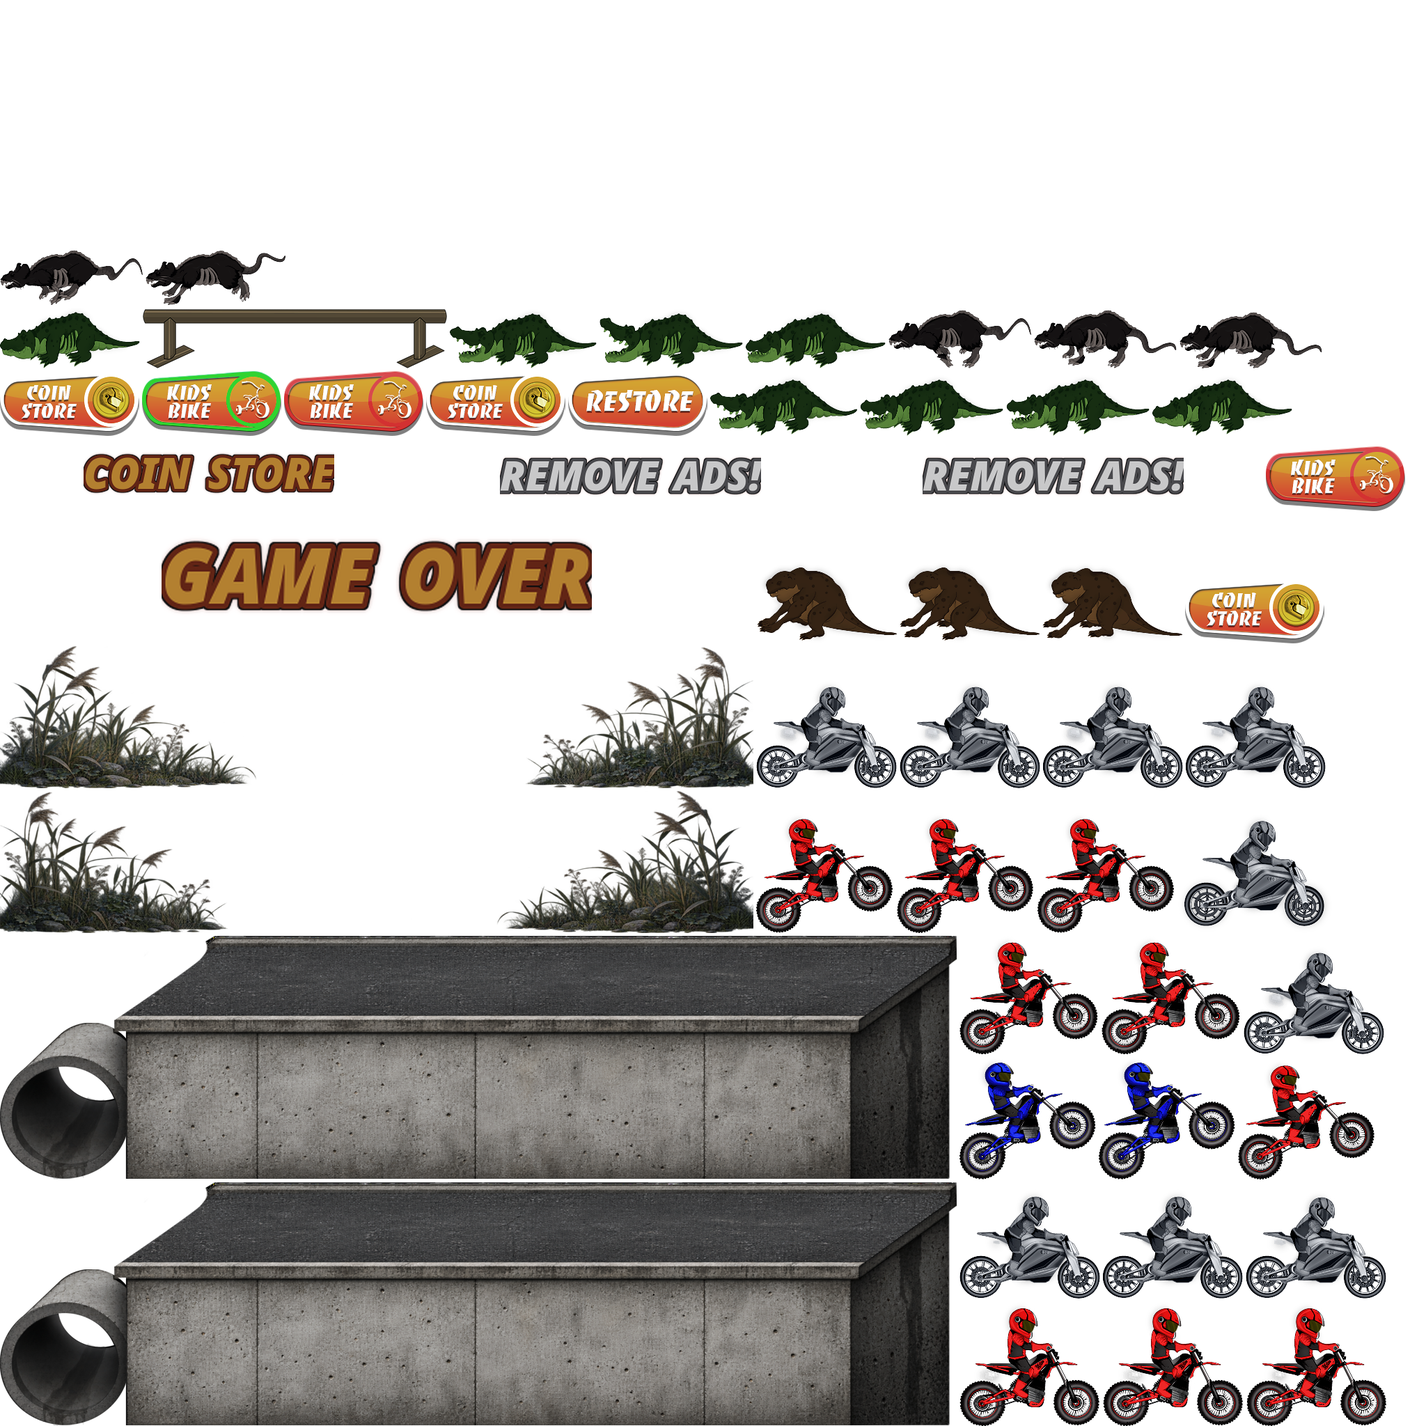
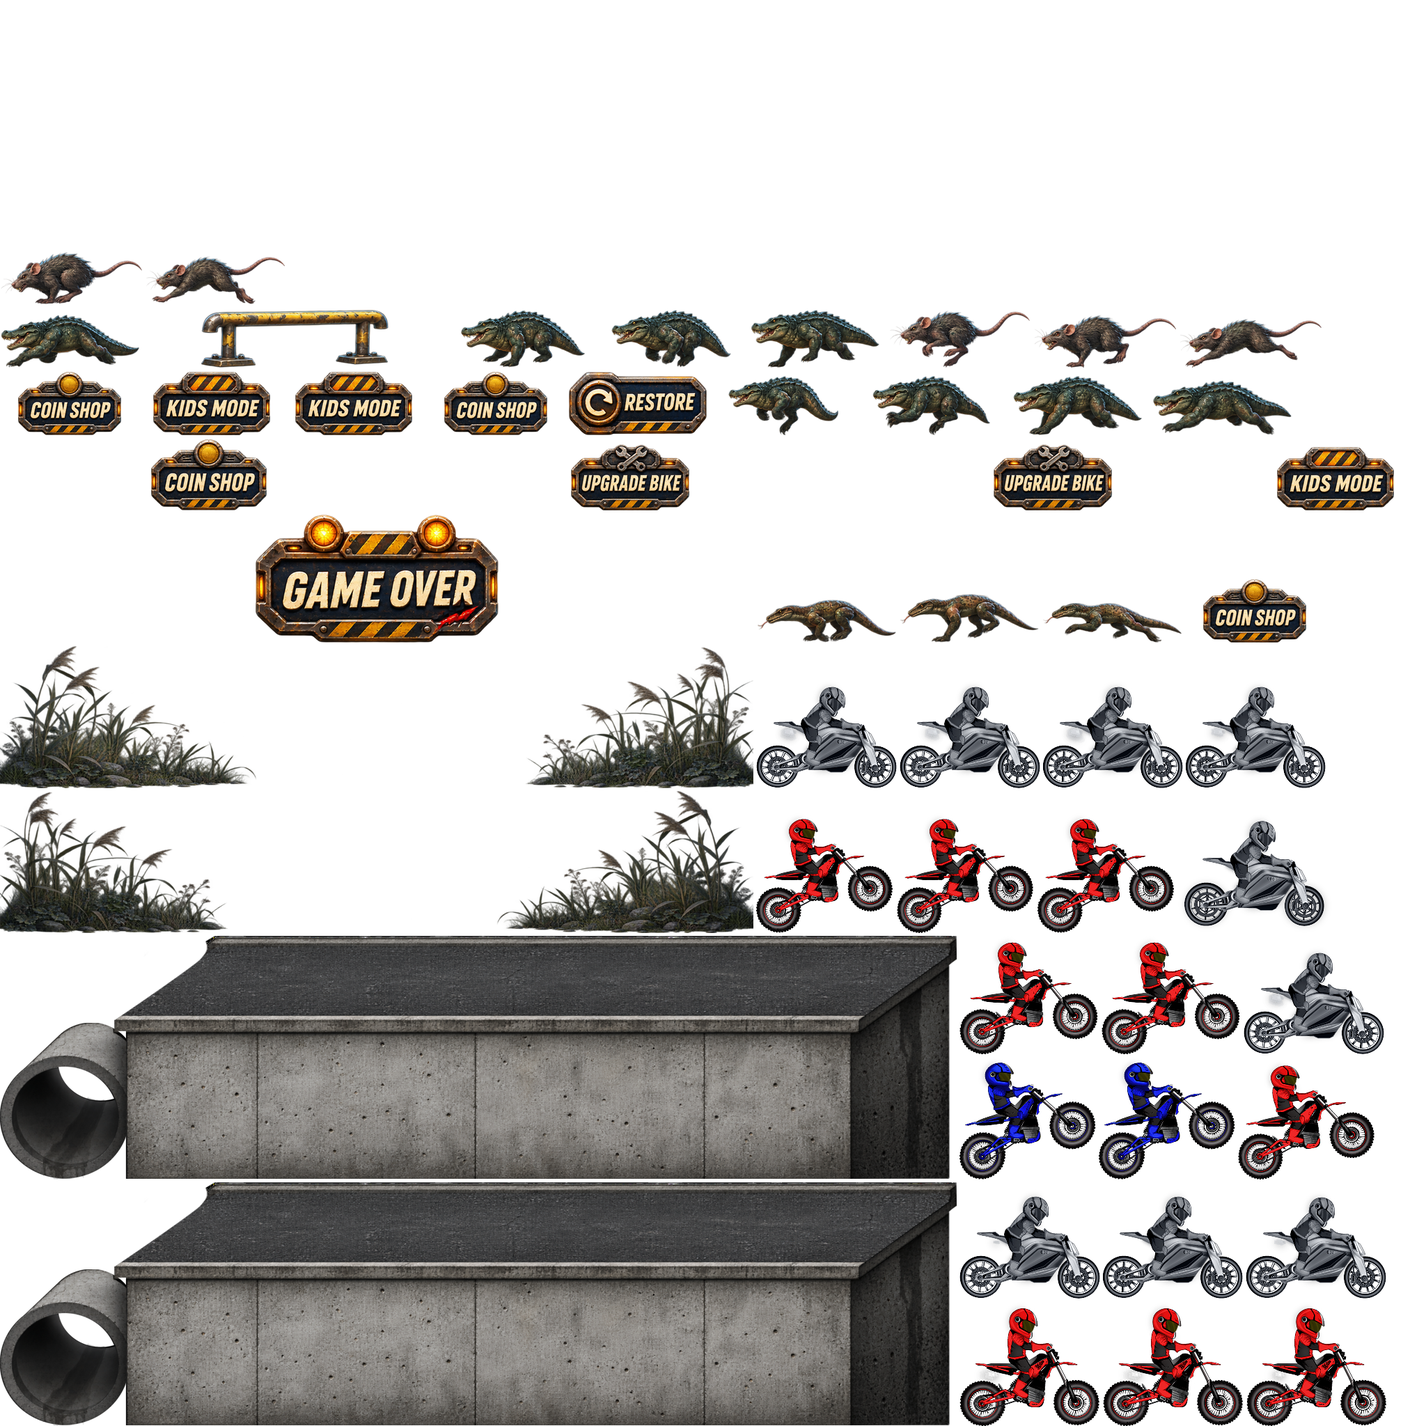
design changes 2

Changed region(s): [[0.0, 0.1562, 1.0, 0.4688]]

diff --git a/tools/build_v2_production_art.py b/tools/build_v2_production_art.py
@@ -210,12 +210,127 @@ def build_barrel() -> None:
     atlas.save(OUT / "animation_s0.png", optimize=True)
 
 
+def logical_frame(plist_path: Path, name: str, subject: Image.Image) -> Image.Image:
+    _, source_rect, source_size = frame_record(plist_path, name)
+    rx, ry, rw, rh = source_rect
+    logical = Image.new("RGBA", source_size, (0, 0, 0, 0))
+    logical.alpha_composite(fit(subject, rw, rh, 1), (rx, ry))
+    return logical
+
+
+def replace_registered_frame(
+    atlases: dict[str, Image.Image], atlas_name: str, name: str, subject: Image.Image
+) -> Image.Image:
+    plist_path = HD / f"{atlas_name}.plist"
+    packed, source_rect, _ = frame_record(plist_path, name)
+    logical = logical_frame(plist_path, name, subject)
+    x, y, width, height = packed
+    rx, ry, rw, rh = source_rect
+    if (width, height) != (rw, rh):
+        raise ValueError(f"rotated or mismatched frame is not supported: {atlas_name}/{name}")
+    atlas = atlases[atlas_name]
+    atlas.paste((0, 0, 0, 0), (x, y, x + width, y + height))
+    atlas.alpha_composite(logical.crop((rx, ry, rx + rw, ry + rh)), (x, y))
+    return logical
+
+
+def build_legacy_obstacles_and_ui() -> None:
+    """Replace weak legacy families while preserving every registered frame."""
+    atlas_names = ["animation_s0", "animation_s1", "animation_s2", "animation_s3"]
+    atlases = {
+        name: Image.open(OUT / f"{name}.png" if name == "animation_s0" else HD / f"{name}.png").convert("RGBA")
+        for name in atlas_names
+    }
+
+    creature_source = Image.open(ART / "obstacles/all/creatures-painted-source.png").convert("RGBA")
+    creature_boxes = row_order(components(creature_source, min_area=5000), tolerance=90)
+    if len(creature_boxes) != 21:
+        raise ValueError(f"expected 21 creature frames, found {len(creature_boxes)}: {creature_boxes}")
+    creature_subjects = [crop(creature_source, box, 2) for box in creature_boxes]
+    creature_frames = [
+        [("animation_s3", f"Obstacles_0_{i}") for i in range(8)],
+        [
+            ("animation_s3", "Obstacles_1_0"), ("animation_s0", "Obstacles_1_1"),
+            ("animation_s3", "Obstacles_1_2"), ("animation_s3", "Obstacles_1_3"),
+            ("animation_s1", "Obstacles_1_4"), ("animation_s1", "Obstacles_1_5"),
+            ("animation_s1", "Obstacles_1_6"), ("animation_s1", "Obstacles_1_7"),
+        ],
+        [("animation_s3", f"Obstacles_2_{i}") for i in range(5)],
+    ]
+
+    obstacle_dir = ART / "obstacles/all/logical"
+    obstacle_dir.mkdir(parents=True, exist_ok=True)
+    source_cursor = 0
+    for obstacle_index, (family, slug) in enumerate(zip(creature_frames, ["alligator", "lizard", "rat"])):
+        logical_frames = []
+        for atlas_name, frame_name in family:
+            logical_frames.append(replace_registered_frame(
+                atlases, atlas_name, frame_name, creature_subjects[source_cursor]
+            ))
+            source_cursor += 1
+        # The runtime uses one polygon for every animation frame even though
+        # their logical canvases vary by a few pixels. Trace the registered
+        # first frame, matching the legacy collision authoring contract.
+        logical_frames[0].save(
+            obstacle_dir / f"{obstacle_index}-{slug}-collision-source.png", optimize=True
+        )
+
+    hurdle_source = Image.open(ART / "obstacles/all/hurdles-painted-source.png").convert("RGBA")
+    hurdle_boxes = row_order(components(hurdle_source, min_area=5000), tolerance=150)
+    if len(hurdle_boxes) != 7:
+        raise ValueError(f"expected seven hurdle concepts, found {len(hurdle_boxes)}: {hurdle_boxes}")
+    hurdle_subjects = [crop(hurdle_source, box, 2) for box in hurdle_boxes]
+    hurdle_families = [
+        (3, "light-barrier", [("animation_s0", "Obstacles_3_0", 0), ("animation_s0", "Obstacles_3_1", 1)]),
+        (5, "launch-ramp", [("animation_s1", "Obstacles_5_0", 2)]),
+        (6, "fence", [("animation_s0", "Obstacles_6_0", 3)]),
+        (7, "grind-rail", [("animation_s3", "Obstacles_7_0", 4)]),
+        (8, "dirt-ramp", [("animation_s1", "Obstacles_8_0", 5)]),
+    ]
+    for obstacle_index, slug, family in hurdle_families:
+        logical_frames = [
+            replace_registered_frame(atlases, atlas_name, frame_name, hurdle_subjects[source_index])
+            for atlas_name, frame_name, source_index in family
+        ]
+        union = Image.new("RGBA", logical_frames[0].size, (0, 0, 0, 0))
+        for logical in logical_frames:
+            union = Image.alpha_composite(union, logical)
+        union.save(obstacle_dir / f"{obstacle_index}-{slug}-collision-source.png", optimize=True)
+
+    ui_source = Image.open(ART / "ui/screens-painted-source.png").convert("RGBA")
+    ui_boxes = row_order(components(ui_source, min_area=10000), tolerance=100)
+    if len(ui_boxes) != 10:
+        raise ValueError(f"expected ten UI components, found {len(ui_boxes)}: {ui_boxes}")
+    ui_subjects = [crop(ui_source, box, 2) for box in ui_boxes]
+    ui_map = [
+        ("animation_s3", "InterfaceGO_0_0", 0),
+        ("animation_s2", "InterfacePM_0_0", 1),
+        ("animation_s3", "InterfaceCoinShop_1_0", 2),
+        ("animation_s3", "InterfaceMM_4_0", 6),
+        ("animation_s3", "InterfaceMM_5_0", 3),
+        ("animation_s3", "InterfaceMM_6_0", 2),
+        ("animation_s3", "InterfaceMM_7_0", 4),
+        ("animation_s3", "InterfaceMM_8_0", 4),
+        ("animation_s3", "InterfaceGO_4_0", 4),
+        ("animation_s3", "InterfaceGO_5_0", 2),
+        ("animation_s3", "InterfaceGO_6_0", 3),
+        ("animation_s3", "InterfaceCS_12_0", 2),
+        ("animation_s1", "InterfaceGF_4_0", 8),
+    ]
+    for atlas_name, frame_name, source_index in ui_map:
+        replace_registered_frame(atlases, atlas_name, frame_name, ui_subjects[source_index])
+
+    for atlas_name, atlas in atlases.items():
+        atlas.save(OUT / f"{atlas_name}.png", optimize=True)
+
+
 def main() -> None:
     OUT.mkdir(parents=True, exist_ok=True)
     build_events()
     build_portraits()
     build_scenic()
     build_barrel()
+    build_legacy_obstacles_and_ui()
     print(f"built production candidates in {OUT}")
 
 

diff --git a/Source/V2/V2RoadEvents.cpp b/Source/V2/V2RoadEvents.cpp
@@ -700,9 +700,12 @@ void RoadEventDirector::layoutHud() {
     const float S = PZLayout::uiScale();
     // left column: coin counter, combo (-162), then the objective plate (-206) and the micro challenge plate (-256)
     if (_objPlate && _objPlate->getNumberOfRunningActions() == 0) _objPlate->setScale(S);
-    if (_objPlate) _objPlate->setPosition(Vec2(safe.getMinX() + 10.f * S, safe.getMaxY() - 208.f * S));
+    // The plates sit in the wall band to the RIGHT of the rider column (rider ~ screen x/5, T-Rex left of it): never over the rider's
+    // head, the camera cut-out or the left-edge actors.
+    const float plateX = std::max(safe.getMinX() + 10.f * S, safe.getMinX() + safe.size.width * 0.27f);
+    if (_objPlate) _objPlate->setPosition(Vec2(plateX, safe.getMaxY() - 208.f * S));
     if (_microPlate && _microPlate->getNumberOfRunningActions() == 0) _microPlate->setScale(S);
-    if (_microPlate) _microPlate->setPosition(Vec2(safe.getMinX() + 10.f * S, safe.getMaxY() - (_objPlate ? 262.f : 208.f) * S));
+    if (_microPlate) _microPlate->setPosition(Vec2(plateX, safe.getMaxY() - (_objPlate ? 262.f : 208.f) * S));
     if (!_marker) return;
     _marker->setScale(S);
     _marker->setPosition(Vec2(safe.getMidX(), safe.getMaxY() - 90.f * S));
@@ -921,7 +924,7 @@ void RoadEventDirector::impact(Actor& m, const Context& ctx) {
         const int g = _nextGroup++;
         for (int i = 0; i < 4; ++i) {
             const float arc = std::sin(3.14159265f * (i + 0.5f) / 4.f) * 0.30f * ctx.apex;
-            if (Actor* c = spawn(Kind::BonusCoin, "coin_gold", 1, m.x - 60.f + i * 40.f, gy + 22.f + arc, 26.f * k, false)) {
+            if (Actor* c = spawn(Kind::BonusCoin, "coin_gold", 1, m.x - 60.f + i * 40.f, gy + 22.f + arc, 34.f * k, false)) {
                 c->w = 34.f * k; c->h = 34.f * k; c->group = g;
             }
         }
@@ -1138,7 +1141,7 @@ void RoadEventDirector::updateTrex(const Context& ctx) {
             if (_waited > 8.f) finishEvent(Outcome::SkippedNoRoad);
             return;
         }
-        t = spawn(Kind::Ambient, "dino_big", 4, 34.f, gy, std::min(1.25f * ctx.apex, 210.f * k), false);
+        t = spawn(Kind::Ambient, "dino_big", 4, 125.f, gy, std::min(0.9f * ctx.apex, 150.f * k), false);   // fully on screen, clear of the camera cut-out
         if (!t) { finishEvent(Outcome::SkippedNoRoad); return; }
         t->fps = 7.f;
         t->w = 0.f;
@@ -1156,7 +1159,7 @@ void RoadEventDirector::updateTrex(const Context& ctx) {
     if (!t) { finishEvent(Outcome::Failed); return; }
     const int phase = _step <= 4 ? 1 : (_step <= 7 ? 2 : 3);
     if (_step <= 9) {
-        t->x = 34.f + std::sin(_t * 2.f) * 14.f;                // lumbering at the left edge
+        t->x = 125.f + std::sin(_t * 2.f) * 14.f;                // lumbering at the left edge
         t->root->setRotation(std::sin(_t * 6.f) * 1.5f);
         static const char* kPhase[3] = {"PURSUIT", "LOG KICKS", "TWIN STOMPS"};
         setObjective("T-REX " + std::to_string(phase) + "/3  " + kPhase[phase - 1] + "\n" + std::to_string(std::min(_passed, _target)) + "/" + std::to_string(_target) +
@@ -1520,7 +1523,7 @@ void RoadEventDirector::spawnRiskLine(float x, float gy, float apex, int count, 
     const float k = kDeviceScale();
     for (int i = 0; i < count; ++i) {
         const float arc = std::sin(3.14159265f * (i + 0.5f) / count) * 0.12f * apex;
-        if (Actor* c = spawn(Kind::BonusCoin, "coin_gold", 1, x + i * spacing, gy + heightFrac * apex + arc, 26.f * k, false)) {
+        if (Actor* c = spawn(Kind::BonusCoin, "coin_gold", 1, x + i * spacing, gy + heightFrac * apex + arc, 34.f * k, false)) {
             c->w = 34.f * k;
             c->h = 34.f * k;
             c->group = group;

diff --git a/Source/Features/PZRunDirector.cpp b/Source/Features/PZRunDirector.cpp
@@ -610,33 +610,32 @@ void PZRunDirector::beginIntro() {
         ch0->jump_counter = 1;
         ch0->setVisible(false);
     }
-    // The platform generator fills the world in its first update, so start the show one beat later.
-    auto proceed = [this]() {
-        auto* intro = Sequence::create(DelayTime::create(0.30f),
-                                       CallFunc::create([this]() { startIntroNow(); }), nullptr);
-        intro->setTag(kIntroDelayTag);
-        runAction(intro);
-    };
-    // Rival dialogue (data in CompleteGameInfo.plist): only before the run, only when a sequence is eligible, always skippable.
-    // The world stays frozen behind it, so no simulation tick advances while it is on screen.
+    // The platform generator fills the world in its first update, so everything visible (dialogue or ride-in) starts one beat
+    // later. The dialogue must NOT freeze the world before that first update, or the road would never be generated and the
+    // intro / dialogue would show an empty sewer (and the rider would fall at GO).
+    std::string seq;
     if (_dialogue) {
         V2::DialogueContext dc;
         dc.replay = V2::Replay::state() == V2::Replay::State::Playing;
         dc.dailyRun = V2::Daily::mode() != V2::Daily::Mode::None;
         dc.dateKey = V2::Daily::dateKeyNow();
-        const std::string seq = V2::DialogueDirector::pick(dc);
-        if (!seq.empty()) {
-            freezeFor(600.f);
+        seq = V2::DialogueDirector::pick(dc);                  // data in CompleteGameInfo.plist; "" = none eligible
+    }
+    auto* intro = Sequence::create(DelayTime::create(0.30f), CallFunc::create([this, seq]() {
+        if (!seq.empty() && _dialogue && _scene) {
+            freezeFor(600.f);                                  // the road exists now; hold the world (no ticks) behind the dialogue
             Node* host = _scene->getParent() ? _scene->getParent() : _scene;
             V2::Analytics::shared().log("dialogue_shown", {{"id", seq}});
-            if (_dialogue->show(seq, host, [this, proceed, seq]() {
+            if (_dialogue->show(seq, host, [this, seq]() {
                     V2::Analytics::shared().log("dialogue_done", {{"id", seq}});
-                    proceed();
+                    startIntroNow();
                 })) return;
-            freezeFor(0.01f);                           // art missing: carry on without it
+            freezeFor(0.01f);                                  // art missing: carry on without it
         }
-    }
-    proceed();
+        startIntroNow();
+    }), nullptr);
+    intro->setTag(kIntroDelayTag);
+    runAction(intro);
 }
 
 void PZRunDirector::openCinematicFrame() {

diff --git a/tools/make_v2_portraits.py b/tools/make_v2_portraits.py
@@ -49,7 +49,12 @@ def bust(jacket, trim, expr):
     return im.resize((W, H), Image.LANCZOS)
 
 
+FORCE_GUARD = True
+
+
 def main():
+    if FORCE_GUARD and '--force' not in sys.argv:
+        sys.exit('REFUSING: Content/Images/HD/v2_portraits.png now holds the painted production art; this script only draws the old flat placeholder. Pass --force to overwrite it anyway.')
     sets = {"player": ((196, 48, 44, 255), (236, 196, 70, 255)), "cool_kid": ((52, 112, 214, 255), (240, 240, 245, 255))}
     sp = []
     for name, (jacket, trim) in sets.items():

diff --git a/tools/make_v2_scenic.py b/tools/make_v2_scenic.py
@@ -66,7 +66,12 @@ def peek():
     return im
 
 
+FORCE_GUARD = True
+
+
 def main():
+    if FORCE_GUARD and '--force' not in sys.argv:
+        sys.exit('REFUSING: Content/Images/HD/v2_scenic.png now holds the painted production art; this script only draws the old flat placeholder. Pass --force to overwrite it anyway.')
     sp = [("scenic_walker_0", walker(0)), ("scenic_walker_1", walker(1)), ("scenic_peek_0", peek())]
     sheet, frames = pack(sp, size=1024)
     os.makedirs(OUT, exist_ok=True)

diff --git a/Source/AppDelegate.cpp b/Source/AppDelegate.cpp
@@ -2,6 +2,7 @@
 #include "AppDelegate.h"
 #include "PZGGameFieldScene.h"
 #include "V2/V2Metrics.h"
+#include "V2/V2Metrics.h"
 #include "PZGCharacterMenu.h"
 #include "PZGLoadingScene.h"
 #include "PZGMainMenuScene.h"
@@ -48,6 +49,7 @@ void AppDelegate::setDebugModeEnabled(bool enable) {
 }
 
 bool AppDelegate::applicationDidFinishLaunching() {
+    V2::Metrics::markLaunch();
     V2::Metrics::markLaunch();
 
     ax::setLogLevel(ax::LogLevel::Debug);

diff --git a/versions/v2/PRODUCT_PLAN.md b/versions/v2/PRODUCT_PLAN.md
@@ -2186,3 +2186,48 @@ If a future method measurably produces safer boundaries or faster reviewed itera
 6. Run the player-session protocol. Art polish is not proof of entertainment or retention; measure first-event reach, voluntary second run, dialogue skips and remembered spectacle moments.
 
 The graphics are credible production candidates, not a finished release. The largest current risk is no longer placeholder style; it is shipping untested collision feel and spectacle density.
+
+### 23.18 Full registered obstacle and screen-art pass (2026-11-21)
+
+The barrel slice was extended to every registered obstacle family without adding
+new gameplay rules or atlas names:
+
+- 8-frame sewer alligator, 8-frame sewer lizard and 5-frame sewer rat cycles;
+- light barrier off/on, barrel, launch ramp, fence, grind rail and dirt ramp;
+- GAME OVER, PAUSED, shop, upgrade, restore, kids-mode and first tutorial-card
+  art now share the navy/steel/cream/orange sewer UI language.
+
+The approved bike/rider atlases, platforms, parallax backgrounds, coins, circular
+controls and in-run HUD were preserved. “Replace all sprite sheets” does not mean
+blindly repaint good assets: unnecessary replacement increases inconsistency,
+download size and regression risk without improving retention.
+
+Integration is deterministic through `tools/build_v2_production_art.py`. It
+rebuilds all four `animation_s*.png` textures while preserving the existing plist
+frame names, rectangles and logical canvases. A pixel audit verifies that only
+the declared frame rectangles change. All collision-bearing replacements have
+review overlays under `reskin-automation/art/v2-production/obstacles/all/` and
+five-point OpenCV inset hulls in `CompleteGameInfo.plist`.
+
+`v2.contentVersion` is now **3** and `rulesVersion` is now **4**. This invalidates
+older deterministic replays by design. Before calling this release-ready:
+
+1. Re-record the golden replay for rules 4/content 3.
+2. Exercise every creature animation and hurdle at slow, normal and maximum speed.
+3. Test near-miss and direct-hit feel with collision debug drawing enabled; OpenCV
+   matching alpha is evidence, not proof of fair play.
+4. Review every affected menu and tutorial frame at phone and tablet aspect ratios.
+5. Measure texture decode/load time on a low-end device and run two fresh-player
+   sessions. Better art does not by itself make the game better than competitors.
+
+### 23.17 Graphics review in the simulator (2026-11-21)
+
+Played in the iOS simulator and forced every road event (landscape, camera cut-out on the left). The V2 event atlas is now painted art and reads as one style with the bike, platforms and sewer background; all seven events (Dino stampede, Pizza Panic, Cool Kid race, Construction flagger, Meteor twin strike, Grandma, T-Rex chase), objective plates, barks, the scenic walker and the dialogue screen render without missing frames.
+Fixed in this pass: T-Rex was clipped by the camera cut-out and hidden under the objective plate (now fully on screen, smaller); risk-line / lucky-meteor coins were small (now 34 units).
+Still open: the T-Rex bark bubble overlaps the objective plate in the top-left; the objective plate sits close to the rider's head on short screens; the dialogue portraits and scenic dinosaurs are placeholder art; only phone landscape was reviewed (no iPad / other aspect ratios); Android was not run.
+
+### 23.18 Road-missing bug and review fixes (2026-11-21)
+
+**Serious bug found and fixed:** with a pre-run dialogue, the intro and the dialogue showed an empty sewer (no platforms) and the rider fell at GO. Cause: my dialogue integration froze the world (`freezeFor`) in `beginIntro` *before* the platform generator's first update, so the road was never generated while the world was held. Fix: the dialogue is now chosen in `beginIntro` but shown only after the same 0.30 s beat the ride-in always had, i.e. after the road exists; then the world is frozen behind it. Verified in the simulator: the road is visible behind the dialogue and during the ride-in countdown. Any future feature that freezes the world during start-up must prime the road first (the fixed-step path already does).
+**Other fixes:** objective / micro plates moved to the wall band right of the rider column (27% of the safe width), so they no longer sit over the rider's head, the camera cut-out or the T-Rex's bubble; scenic beats are now tinted cool and drawn at lower opacity for the painted art.
+**Art status:** `v2_events.png`, `v2_portraits.png` and `v2_scenic.png` now hold painted art (same frame names and sizes). `tools/make_v2_scenic.py` and `make_v2_portraits.py` only produce the old flat placeholders and now refuse to run without `--force`. The scenic beat positions (`yFrac`, `heightFrac`, `clipYFrac`) were tuned with the placeholder silhouettes: re-check the painted walker and wall-peek in game and adjust the plist if they look too big / too low.

diff --git a/reskin-automation/art/v2-production/README.md b/reskin-automation/art/v2-production/README.md
@@ -20,7 +20,35 @@ Source roles:
 - `obstacles/barrel/barrel-painted-source.png`: first collision-sensitive legacy
   hurdle vertical slice; repacked into the original 200x200 logical canvas and
   original `Obstacles_4_0` atlas frame before OpenCV collision review.
+- `obstacles/all/creatures-painted-source.png`: eight-frame alligator, eight-frame
+  lizard and five-frame rat cycles. Their 21 existing frame ids remain unchanged.
+- `obstacles/all/hurdles-painted-source.png`: light barrier off/on, launch ramp,
+  fence, grind rail and dirt ramp. The seventh generated delivery-crate concept
+  is deliberately unused because it has no matching registered collision contract.
+- `obstacles/all/logical/`: first-frame logical canvases and reviewed OpenCV
+  collision overlays for every obstacle family except the separately documented barrel.
+- `ui/screens-painted-source.png`: coherent sewer-metal results, pause, shop,
+  upgrade, kids-mode and tutorial elements. Existing readable circular controls,
+  bikes, platforms, parallax backgrounds, coins and HUD art are intentionally preserved.
 
 The generated source canvas is intentionally not the runtime packing contract.
 The builder segments approved subjects, fits them into the existing registered
 frames with transparent gutters, and preserves the atlas plists unchanged.
+
+## Built-in ImageGen prompts
+
+The production sources were generated in built-in tool mode with transparent
+backgrounds. The final prompt families were:
+
+1. **Creatures:** exactly 21 isolated left-facing sprites—8 mutant sewer
+   alligator run frames, 8 distinct monitor-lizard run frames and 5 scrappy rat
+   run frames—in cinematic painted arcade realism, cool sewer rim light, strong
+   phone-scale silhouettes, no gore, text, scenery, overlap or cropped anatomy.
+2. **Hurdles:** exactly 7 isolated side-view concepts—barrier off/on, steel
+   launch ramp, bent municipal fence, grind rail, rubble ramp and delivery
+   crates—matching the bike/platform material language with restrained orange
+   safety accents and collision-readable silhouettes.
+3. **Screen UI:** exactly 10 isolated navy/steel/orange plates with the verbatim
+   labels GAME OVER, PAUSED, COIN SHOP, UPGRADE BIKE, KIDS MODE, RIDE, RESTORE,
+   REMOVE ADS, TAP TO JUMP and HOLD TO FLIP; premium arcade construction, high
+   contrast, transparent background and no extra branding.
